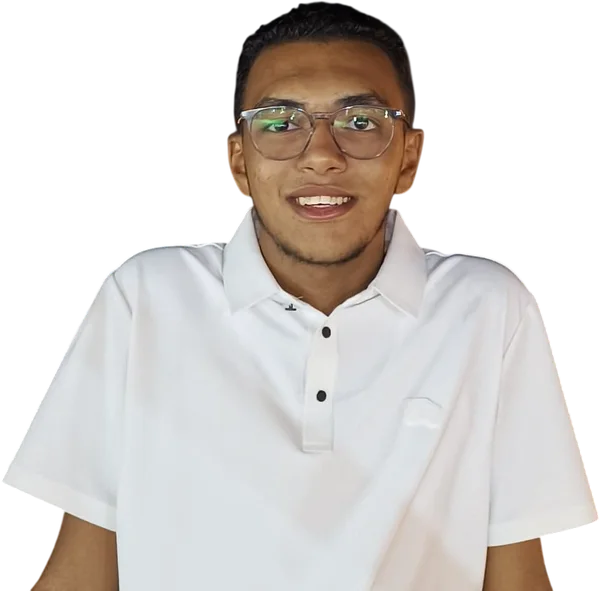
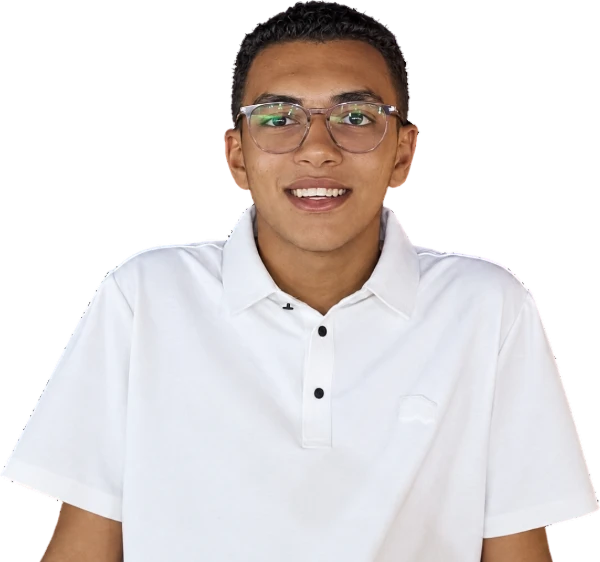
Use the new studio portrait on the home hero
Cut out from the black backdrop (edge pixels un-blended so no dark
fringe) and trimmed to the subject, at the same 900/600 widths.

diff --git a/client/src/lib/profileImage.ts b/client/src/lib/profileImage.ts
@@ -1,9 +1,9 @@
 // "about": portrait crop of profile-ziad-about.jpg (subject centered, dark ceiling band removed).
-// "home": transparent cutout from profile-ziad-alt.png, trimmed to the subject; it sits on the navy
+// "home": transparent cutout of the studio portrait (black backdrop keyed out), trimmed to the subject; it sits on the navy
 // hero card. Regenerate a variant's files together if its source photo changes.
 const VARIANTS = {
   about: { src: "/images/profile-ziad-portrait.jpg", srcSet: "/images/profile-ziad-portrait-720.webp 720w, /images/profile-ziad-portrait-1200.webp 1200w", width: 1200, height: 1463 },
-  home: { src: "/images/profile-ziad-cutout-900.webp", srcSet: "/images/profile-ziad-cutout-600.webp 600w, /images/profile-ziad-cutout-900.webp 900w", width: 900, height: 886 },
+  home: { src: "/images/profile-ziad-cutout-900.webp", srcSet: "/images/profile-ziad-cutout-600.webp 600w, /images/profile-ziad-cutout-900.webp 900w", width: 900, height: 844 },
 };
 
 /** img props for the profile photo; a CMS-provided URL wins and skips the local srcset. */
